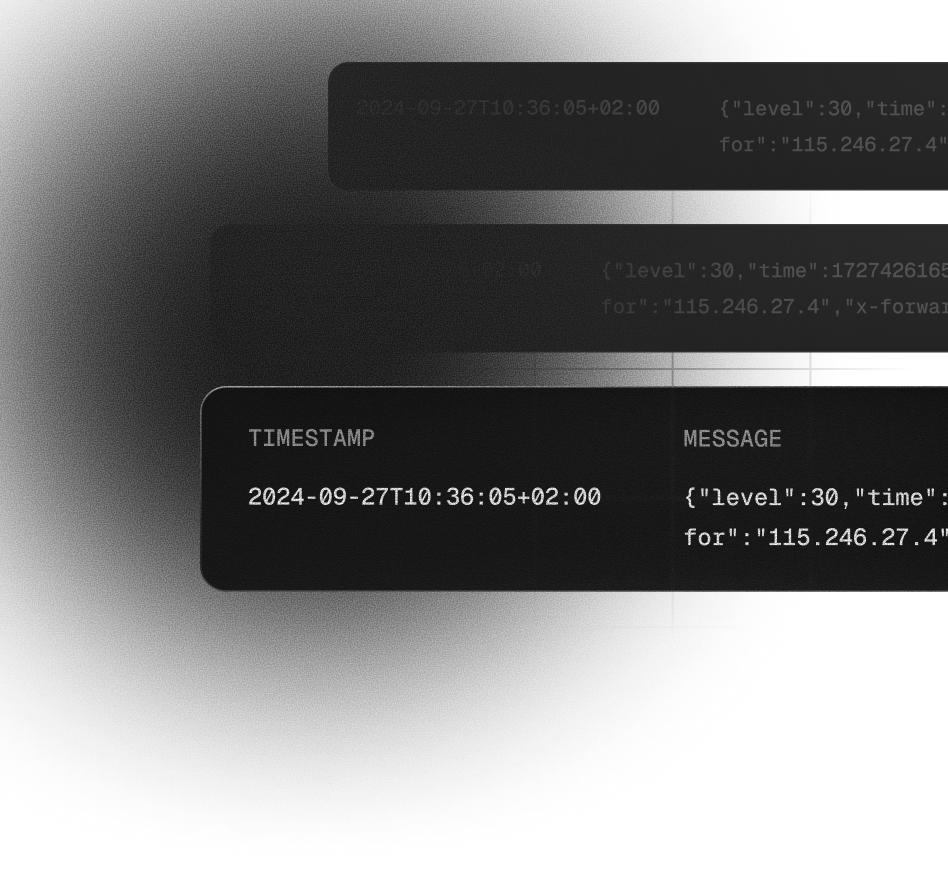
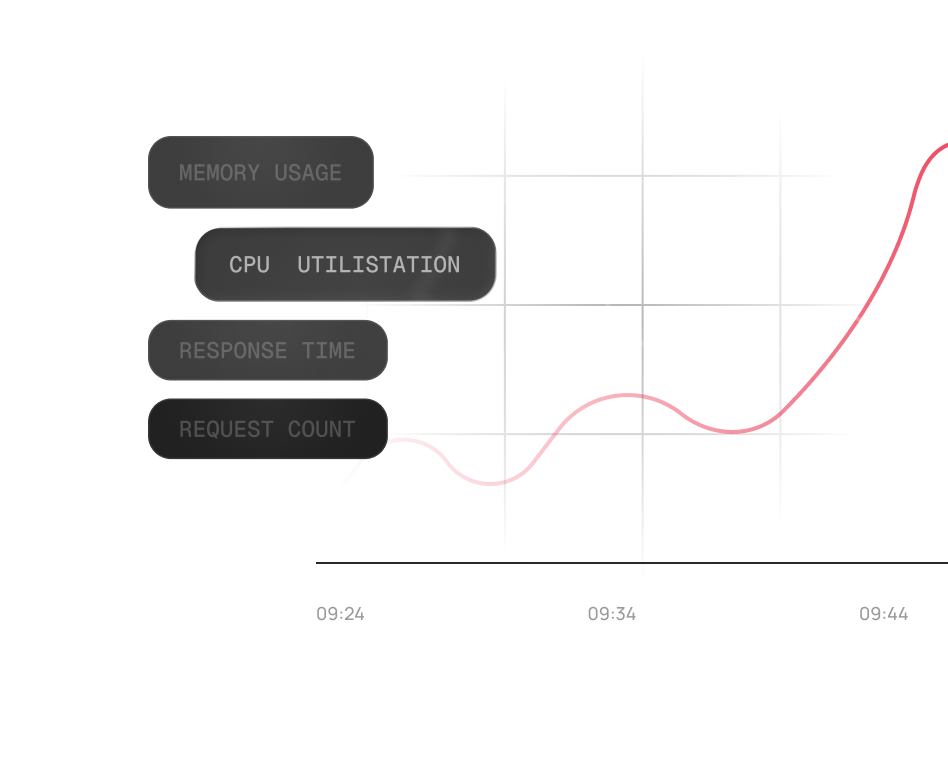
feat: add mau sections

diff --git a/app/routes/tools-mau.tsx b/app/routes/tools-mau.tsx
@@ -1,10 +1,25 @@
 import {
+  ChatsIcon as Chats,
+  ClockClockwiseIcon as ClockClockwise,
+  CloudIcon as Cloud,
+  DatabaseIcon as Database,
+  HardDriveIcon as HardDrive,
   HexagonIcon as Hexagon,
+  NotebookIcon as Notebook,
+  PulseIcon as Pulse,
   PulseIcon,
   RocketIcon as Rocket,
+  SquaresFourIcon as SquaresFour,
   StarIcon as Star,
+  UsersThreeIcon as UsersThree,
 } from "@phosphor-icons/react";
 import { useEffect, useState } from "react";
+import AWSIcon from "../assets/icons/aws.svg";
+import CLIIcon from "../assets/icons/cli.svg";
+import NestIcon from "../assets/icons/nest.svg";
+import Box1 from "../assets/mau-cards/box-1.png";
+import Box2 from "../assets/mau-cards/box-2.png";
+import Box3 from "../assets/mau-cards/box-3.png";
 import MauCard1 from "../assets/mau-cards/card-1.png";
 import MauCard2 from "../assets/mau-cards/card-2.png";
 import MauCard3 from "../assets/mau-cards/card-3.png";
@@ -14,12 +29,15 @@ import MauIllustration2 from "../assets/mau-cards/illustration-2.png";
 import MauIllustration3 from "../assets/mau-cards/illustration-3.png";
 import HeaderBlock1 from "../assets/mau-header/header-block-1.png";
 import HeaderBlock2 from "../assets/mau-header/header-block-2.png";
+import MauMockup from "../assets/mau-mockup.png";
 import { MENU_ITEMS } from "../common/menu";
 import AnimatedContent from "../components/animations/animated-content/animated-content";
 import { BlurIn } from "../components/animations/blur-in/blur-in";
 import ScrollReveal from "../components/animations/scroll-reveal/scroll-reveal";
 import { PrimaryButton } from "../components/buttons/primary-button/primary-button";
+import { FeatureSection } from "../components/domain/feature-section/feature-section";
 import { SectionSubheading } from "../components/domain/section-subheading/section-subheading";
+import { TiltedText } from "../components/domain/tilted-text/tilted-text";
 import { BrandsSection } from "../sections/brands/brands-section";
 import { CoursesSection } from "../sections/courses/courses-section";
 import { EnterpriseSection } from "../sections/enterprise/enterprise-section";
@@ -113,6 +131,9 @@ export default function Courses() {
       />
       <div className="flex justify-center md:mt-20 mt-8 mb-0">
         <BrandsSection />
+      </div>
+      <div className="container relative mx-auto">
+        <img src={MauMockup} className="w-full pointer-events-none" />
       </div>
       <div className="flex justify-center flex-col px-5 pt-40 pb-20">
         <div className="relative container mx-auto">
@@ -269,6 +290,103 @@ export default function Courses() {
           </div>
         </div>
       </div>
+      <FeatureSection
+        subheading="Scale and grow"
+        title="Focus on building your product"
+        image={Box1}
+        items={[
+          {
+            icon: AWSIcon,
+            title: "AWS",
+            description:
+              "Deploy your infrastructure on AWS with a few clicks. No DevOps knowledge required.",
+          },
+          {
+            icon: NestIcon,
+            title: "Nest integrated",
+            description:
+              "Mau is built by the creator of NestJS, and makes provisioning your applications a breeze.",
+          },
+          {
+            icon: CLIIcon,
+            title: "CLI",
+            description:
+              "Deploy your applications with ease using our dedicated command line interface.",
+          },
+          {
+            icon: <UsersThree size="42px" />,
+            title: "Collaboration",
+            description:
+              "Invite your team members to collaborate on infrastructure management and share access to resources.",
+          },
+        ]}
+      />
+      <FeatureSection
+        className="mt-60"
+        subheading="Stability and reliability"
+        title="Server management made easy"
+        image={Box2}
+        reverse
+        items={[
+          {
+            icon: <Cloud size="42px" />,
+            title: "Web applications",
+            description:
+              "Trust Mau to handle the deployment and management of your NestJS applications.",
+          },
+          {
+            icon: <Database size="42px" />,
+            title: "Databases",
+            description:
+              "Whether it's PostgreSQL, MySQL, MongoDB, or Redis, Mau has got you covered.",
+          },
+          {
+            icon: <ClockClockwise size="42px" />,
+            title: "Task scheduling",
+            description:
+              "Easily schedule and manage your background tasks and cron jobs with Mau.",
+          },
+          {
+            icon: <SquaresFour size="42px" />,
+            title: "Microservices",
+            description:
+              "Deploy and manage your microservices architecture with our intuitive interface.",
+          },
+        ]}
+      />
+      <FeatureSection
+        className="mt-60"
+        subheading="Insights and visibility"
+        title="Monitor and optimize"
+        image={Box3}
+        items={[
+          {
+            icon: <Notebook size="42px" />,
+            title: "Real-time logs",
+            description:
+              "Logs are streamlined and conveniently accessible directly from the Mau dashboard.",
+          },
+          {
+            icon: <Pulse size="42px" />,
+            title: "Monitoring",
+            description:
+              "Keep an eye on your application's performance (CPU, memory, health) with real-time monitoring tools.",
+          },
+          {
+            icon: <HardDrive size="42px" />,
+            title: "Backups",
+            description:
+              "Automate your database backups with the Business plan and ensure your data is always safe and recoverable.",
+          },
+          {
+            icon: <Chats size="42px" />,
+            title: "Brokers",
+            description:
+              "Kafka, RabbitMQ, NATS - Mau supports a variety of message brokers to fit your application's needs.",
+          },
+        ]}
+      />
+      <TiltedText />
       <FaqSection />
       <EnterpriseSection className="lg:mt-30 mt-0" />
       <SyntaxSection className="mt-30 pt-2 pb-30" />

diff --git a/app/components/domain/tilted-text/tilted-text.tsx b/app/components/domain/tilted-text/tilted-text.tsx
@@ -1,0 +1,87 @@
+import { motion, useMotionValue, useSpring, useTransform } from "motion/react";
+import { useRef } from "react";
+import AnimatedContent from "../../animations/animated-content/animated-content";
+import LightRays from "../../animations/light-rays/light-rays";
+import NoiseOverlay from "../../backgrounds/noise-overlay/noise-overlay";
+import { PrimaryButton } from "../../buttons/primary-button/primary-button";
+
+const TILT_DEGREES = 3;
+const SPRING_CONFIG = { stiffness: 200, damping: 20 };
+
+export function TiltedText({}) {
+  const cardRef = useRef<HTMLDivElement>(null);
+
+  const mouseX = useMotionValue(0.5);
+  const mouseY = useMotionValue(0.5);
+
+  const rotateX = useSpring(
+    useTransform(mouseY, [0, 1], [TILT_DEGREES, -TILT_DEGREES]),
+    SPRING_CONFIG,
+  );
+  const rotateY = useSpring(
+    useTransform(mouseX, [0, 1], [-TILT_DEGREES, TILT_DEGREES]),
+    SPRING_CONFIG,
+  );
+
+  function handleMouseMove(e: React.MouseEvent) {
+    const rect = cardRef.current?.getBoundingClientRect();
+    if (!rect) return;
+    mouseX.set((e.clientX - rect.left) / rect.width);
+    mouseY.set((e.clientY - rect.top) / rect.height);
+  }
+
+  function handleMouseLeave() {
+    mouseX.set(0.5);
+    mouseY.set(0.5);
+  }
+
+  return (
+    <AnimatedContent distance={250} delay={0.1} initialOpacity={0}>
+      <section
+        id="testimonial"
+        className="flex justify-center md:my-24 my-12 px-4"
+        style={{ perspective: 1000 }}
+      >
+        <motion.div
+          ref={cardRef}
+          onMouseMove={handleMouseMove}
+          onMouseLeave={handleMouseLeave}
+          style={{ rotateX, rotateY, transformStyle: "preserve-3d" }}
+          className="rounded-[20px] border border-white/15 p-2 relative container will-change-transform"
+        >
+          <div className="bg-gradient-to-b from-[#1b1b1b] to-[#0e0e0e] rounded-[16px] md:py-42 py-16 md:px-12 relative z-10 overflow-hidden">
+            <NoiseOverlay opacity={0.1} />
+            <div className="absolute scale-150 inset-0 pointer-events-none rounded-[16px]">
+              <LightRays
+                raysOrigin="top-right"
+                raysSpeed={0.75}
+                lightSpread={5}
+                rayLength={50}
+                followMouse={false}
+                mouseInfluence={0.1}
+                noiseAmount={0.1}
+                distortion={0.05}
+                opacity={0.3}
+              />
+            </div>
+            <div className="flex md:items-start md:flex-row flex-col-reverse max-w-5xl mx-auto z-100 relative">
+              <div className="flex items-center flex-col w-full md:mt-0 mt-12">
+                <h3 className="text-6xl md:text-8xl font-medium text-center">
+                  Start a free trial today
+                </h3>
+                <p className="font-mono text-sm opacity-70 leading-6 font-light mt-6 mb-4 text-center">
+                  Experience the full power of NestJS with our free trial, and
+                  see how it can transform your development process and
+                  accelerate your projects.
+                </p>
+                <PrimaryButton className="mt-6" href="/dashboard">
+                  Deploy your first app
+                </PrimaryButton>
+              </div>
+            </div>
+          </div>
+        </motion.div>
+      </section>
+    </AnimatedContent>
+  );
+}

diff --git a/app/components/domain/feature-section/feature-section.tsx b/app/components/domain/feature-section/feature-section.tsx
@@ -1,0 +1,80 @@
+import AnimatedContent from "../../animations/animated-content/animated-content";
+import ScrollReveal from "../../animations/scroll-reveal/scroll-reveal";
+import { SectionSubheading } from "../section-subheading/section-subheading";
+
+type FeatureSectionProps = {
+  subheading: string;
+  title: string;
+  items: Array<{
+    icon: string | React.ReactNode;
+    title: string;
+    description: string;
+  }>;
+  image: string;
+  className?: string;
+  reverse?: boolean;
+};
+
+export function FeatureSection({
+  subheading,
+  title,
+  items,
+  image,
+  className = "",
+  reverse = false,
+}: FeatureSectionProps) {
+  return (
+    <div className={`container mx-auto my-30 ${className}`}>
+      <div
+        className={`flex justify-center gap-40 ${reverse ? "flex-row-reverse" : ""}`}
+      >
+        <div className="flex flex-col basis-[48%] text-left">
+          <SectionSubheading>{subheading}</SectionSubheading>
+          <ScrollReveal
+            ElementTag="h2"
+            className="font-medium sm:text-6xl text-[2.3rem] leading-[1.1]"
+            enableBlur
+          >
+            {title}
+          </ScrollReveal>
+          <div className="my-6">
+            {items.map((item, index) => (
+              <AnimatedContent
+                key={index}
+                delay={index * 0.2}
+                distance={10}
+                duration={0.8}
+              >
+                <div
+                  key={index}
+                  className={`${index !== items.length - 1 ? "border-b border-white/10" : ""} w-full py-8 flex gap-8 items-center`}
+                >
+                  {typeof item.icon === "string" ? (
+                    <img src={item.icon} alt={`${item.title} Icon`} />
+                  ) : (
+                    item.icon
+                  )}
+                  <div className="">
+                    <AnimatedContent delay={0.15} distance={10} duration={0.8}>
+                      <h5 className="text-lg">{item.title}</h5>
+                    </AnimatedContent>
+                    <AnimatedContent delay={0.3} distance={10} duration={0.8}>
+                      <p className="font-mono text-sm opacity-70 leading-6 font-light mt-2">
+                        {item.description}
+                      </p>
+                    </AnimatedContent>
+                  </div>
+                </div>
+              </AnimatedContent>
+            ))}
+          </div>
+        </div>
+        <div className="relative basis-[52%]">
+          <AnimatedContent distance={150} delay={0.1} initialOpacity={0}>
+            <img src={image} className="w-full pointer-events-none" />
+          </AnimatedContent>
+        </div>
+      </div>
+    </div>
+  );
+}

diff --git a/app/root.tsx b/app/root.tsx
@@ -93,7 +93,7 @@ export function ErrorBoundary({ error }: Route.ErrorBoundaryProps) {
               animate-fade-out"
       ></div>
       <div
-        className="absolute inset-0 bg-gradient-to-r from-[#050303] via-[#7b0c57] to-[#050303]
+        className="absolute inset-0 bg-gradient-to-r from-[#050303] via-[#111] to-[#050303]
               opacity-0 animate-fade-in"
       ></div>
       <LazyRender
@@ -105,10 +105,10 @@ export function ErrorBoundary({ error }: Route.ErrorBoundaryProps) {
           <Aurora
             onReady={() => setAuroraReady(true)}
             transitionColorStops={{
-              desktop: ["#630b47", "#050303", "#2e0420"],
-              mobile: ["#7b0c57", "#7b0c57", "#7f0d59"],
+              desktop: ["#333", "#000", "#444"],
+              mobile: ["#333", "#000", "#444"],
             }}
-            glowColor="#7b0c57"
+            glowColor="#444"
           />
           <NoiseOverlay />
         </>

diff --git a/app/sections/header/header.tsx b/app/sections/header/header.tsx
@@ -305,7 +305,7 @@ export function Header({
             </div>
           </BlurIn>
           <div
-            className={`centered text-center pt-26 2xl:pt-32 flex flex-col items-center ${bottomPanel ? "pb-0" : "pb-40"}`}
+            className={`centered text-center pt-26 2xl:pt-28 flex flex-col items-center ${bottomPanel ? "pb-0" : "pb-40"}`}
           >
             {breadcrumb && (
               <BlurIn>